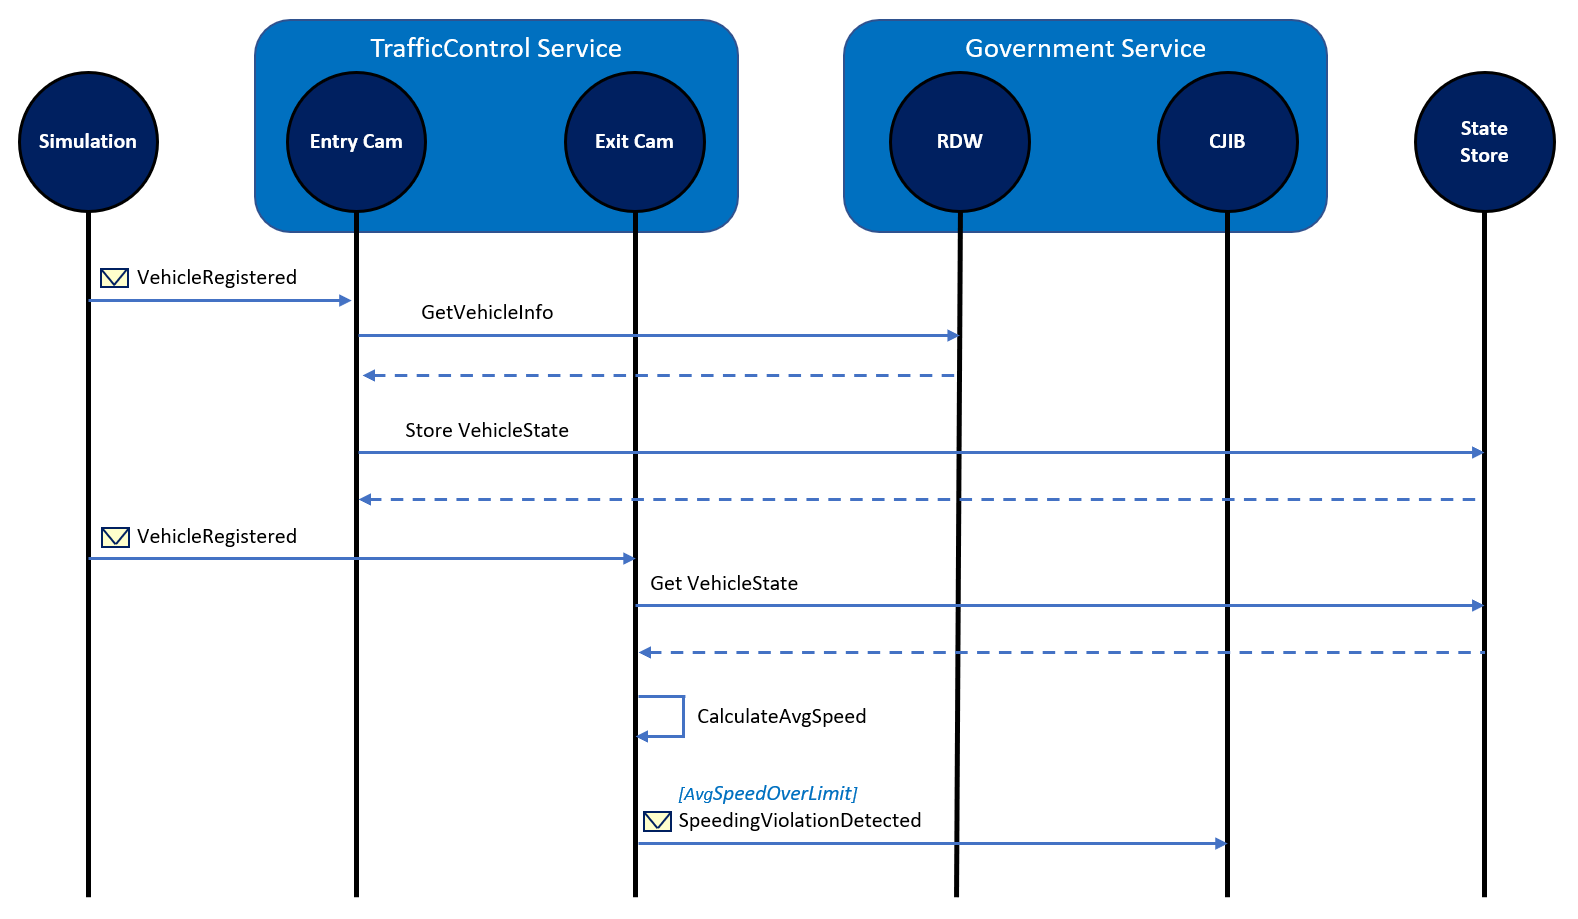
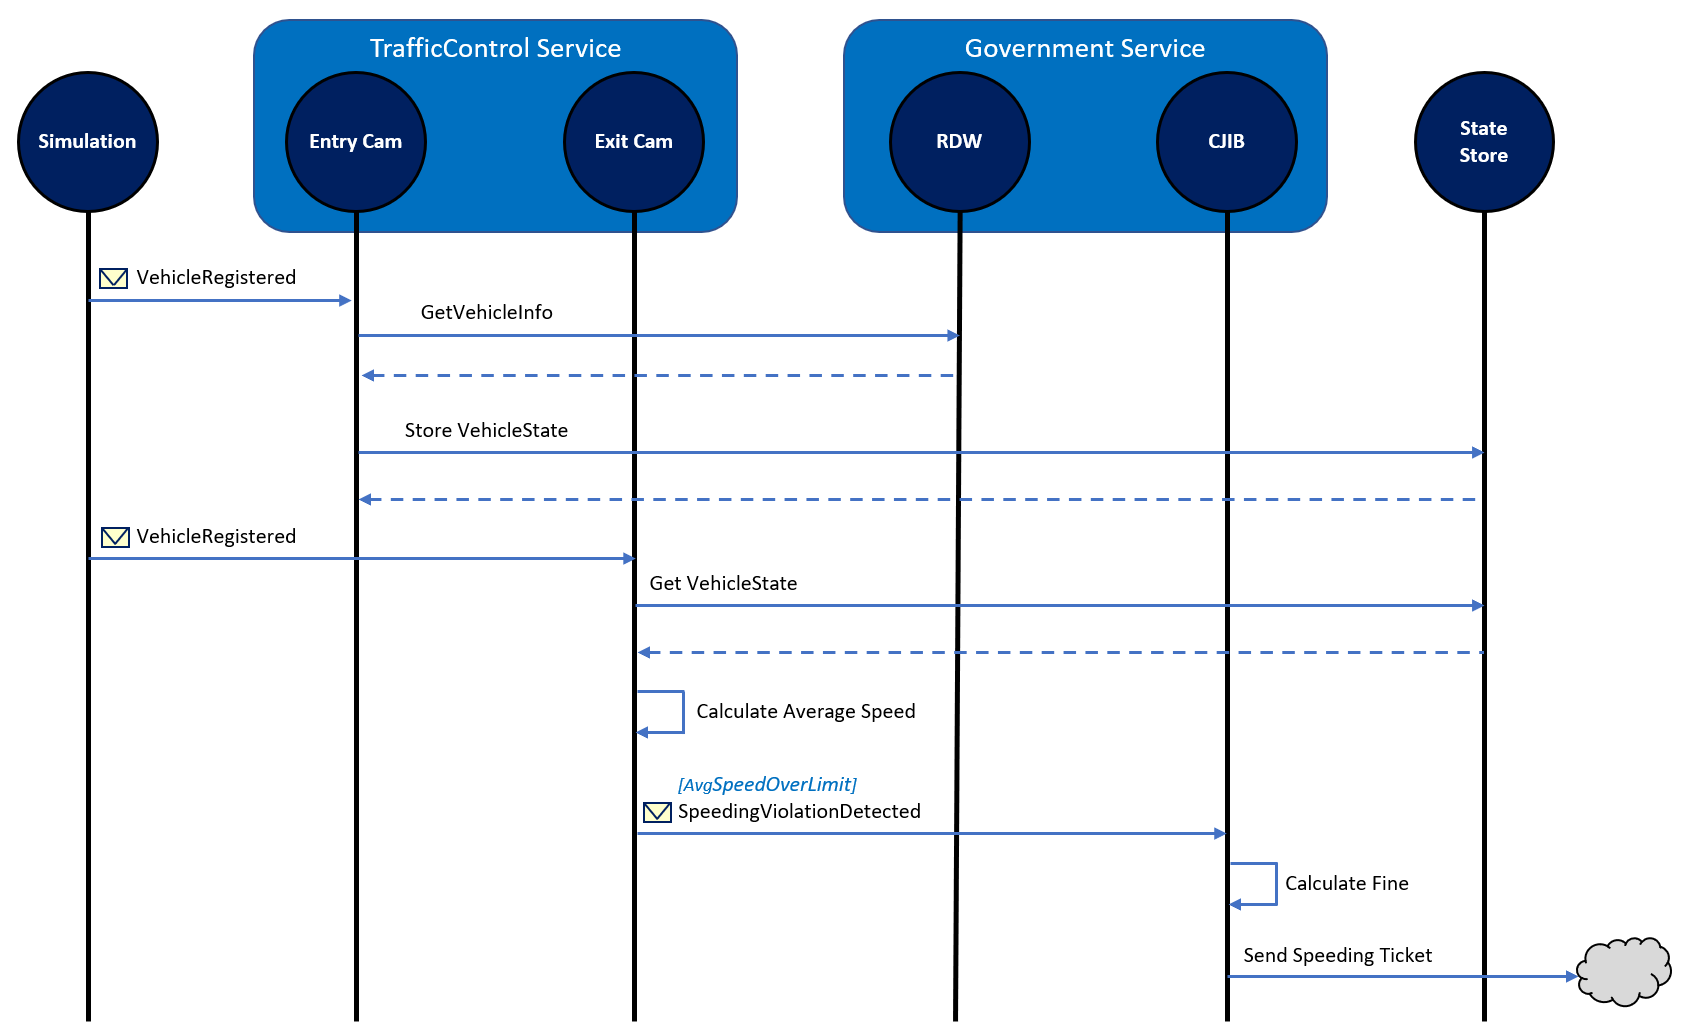
Updated readme

Changed region(s): [[0.0, 0.0, 0.9937, 0.975]]

diff --git a/README.md b/README.md
@@ -19,7 +19,7 @@ In order to simulate this in code, I created several services as shown below:
 
 - The **Simulation** is a .NET Core console application that will simulate passing cars.
 - The **TrafficControlService** is an ASP.NET Core WebAPI application that offers 2 endpoints: *Entrycam* and *ExitCam*.
-- The **Government** service is an ASP.NET Core WebAPI application tha offers 2 endpoints: *RDW* (for retrieving vehicle information) and *CJIB* (for sending speeding tickets).
+- The **Government** service is an ASP.NET Core WebAPI application that offers 2 endpoints: *RDW* (for retrieving vehicle information) and *CJIB* (for sending speeding tickets).
 
 The way the simulation works is depicted in the sequence diagram below:
 
@@ -31,10 +31,10 @@ The way the simulation works is depicted in the sequence diagram below:
 4. After some random interval, the **Simulation** sends a *VehicleRegistered* message to the *ExitCam* endpoint of the **TrafficControlService** (containing the license-number generated in step 1, a random exit-lane (1-3) and the exit timestamp).
 5. The **TrafficControlService** retrieves the VehicleState from the state-store.
 6. The **TrafficControlService** calculates the average speed of the vehicle using the entry- and exit-timestamp.
-7. If the average speed is above the speed-limit, the TrafficControlService will sent a *SpeedingViolationDetected* message (containg the license-number of the vehicle, the identifier of the road, the speeding-violation in KMh and the timestamp of the violation) to the *CJIB* endpoint of the **GovernmentService**.
-8. The **GovernmentService** will calculate the fine for the speeding-violation and simulate sending a speeding-ticket to the owner of the vehicle.
+7. If the average speed is above the speed-limit, the **TrafficControlService** will sent a *SpeedingViolationDetected* message (containing the license-number of the vehicle, the identifier of the road, the speeding-violation in KMh and the timestamp of the violation) to the *CJIB* endpoint of the **GovernmentService**.
+8. The **GovernmentService** calculates the fine for the speeding-violation and simulates sending a speeding-ticket to the owner of the vehicle.
 
-All actions described in this sequence are logged to the console during execution.
+All actions described in this sequence are logged to the console during execution so you can follow the flow.
 
 ## dapr
 This sample uses dapr for implementing several aspects of the application. For communicating messages, the **publish and subscribe** building-block is used. For doing request/response type communication with a service, the  **service-to-service invocation** building-block is used. And for storing the state of a vehicle, the **state management** building-block is used.
@@ -42,6 +42,35 @@ This sample uses dapr for implementing several aspects of the application. For c
 ![](img/dapr-setup.png)
 
 In this sample, the Reddis component is used for both state management as well as for pub/sub.
+
+## Running the sample (using dapr self-hosted mode)
+Execute the following steps to run the sample application:
+
+1. Make sure you have installed dapr on your machine as described in the [dapr documentation](https://github.com/dapr/docs/blob/master/getting-started/environment-setup.md).
+2. Open three separate command-shells.
+3. In the first shell, execute the following command (using the dapr cli) to run the **TrafficControlService**:
+  ```
+  dapr run --app-id trafficcontrolservice --app-port 5000 --dapr-grpc-port 50001 dotnet run
+  ```
+4. In the second shell, execute the following command (using the dapr cli) to run the **GovernmentService**:
+  ```
+  dapr run --app-id governmentservice --app-port 6000 --dapr-grpc-port 50002 dotnet run
+  ```
+5. In the third shell, execute the following command to run the **Simulation**:
+```
+dotnet run
+```
+
+You should now see logging in each of the shells, similar to the logging shown below:
+
+**Simulation:**
+![](img/logging-simulation.png)
+
+**TrafficControlService:**
+![](img/logging-trafficcontrolservice.png)
+
+**GovernmentService:**
+![](img/logging-governmentservice.png)
 
 ## Disclaimer
 The code in this repo is NOT production grade and lacks any automated testing. It is intentionally kept as simple as possible (KISS). Its primary purpose is demonstrating several dapr concepts and not being a full fledged application that can be put into production as is.
